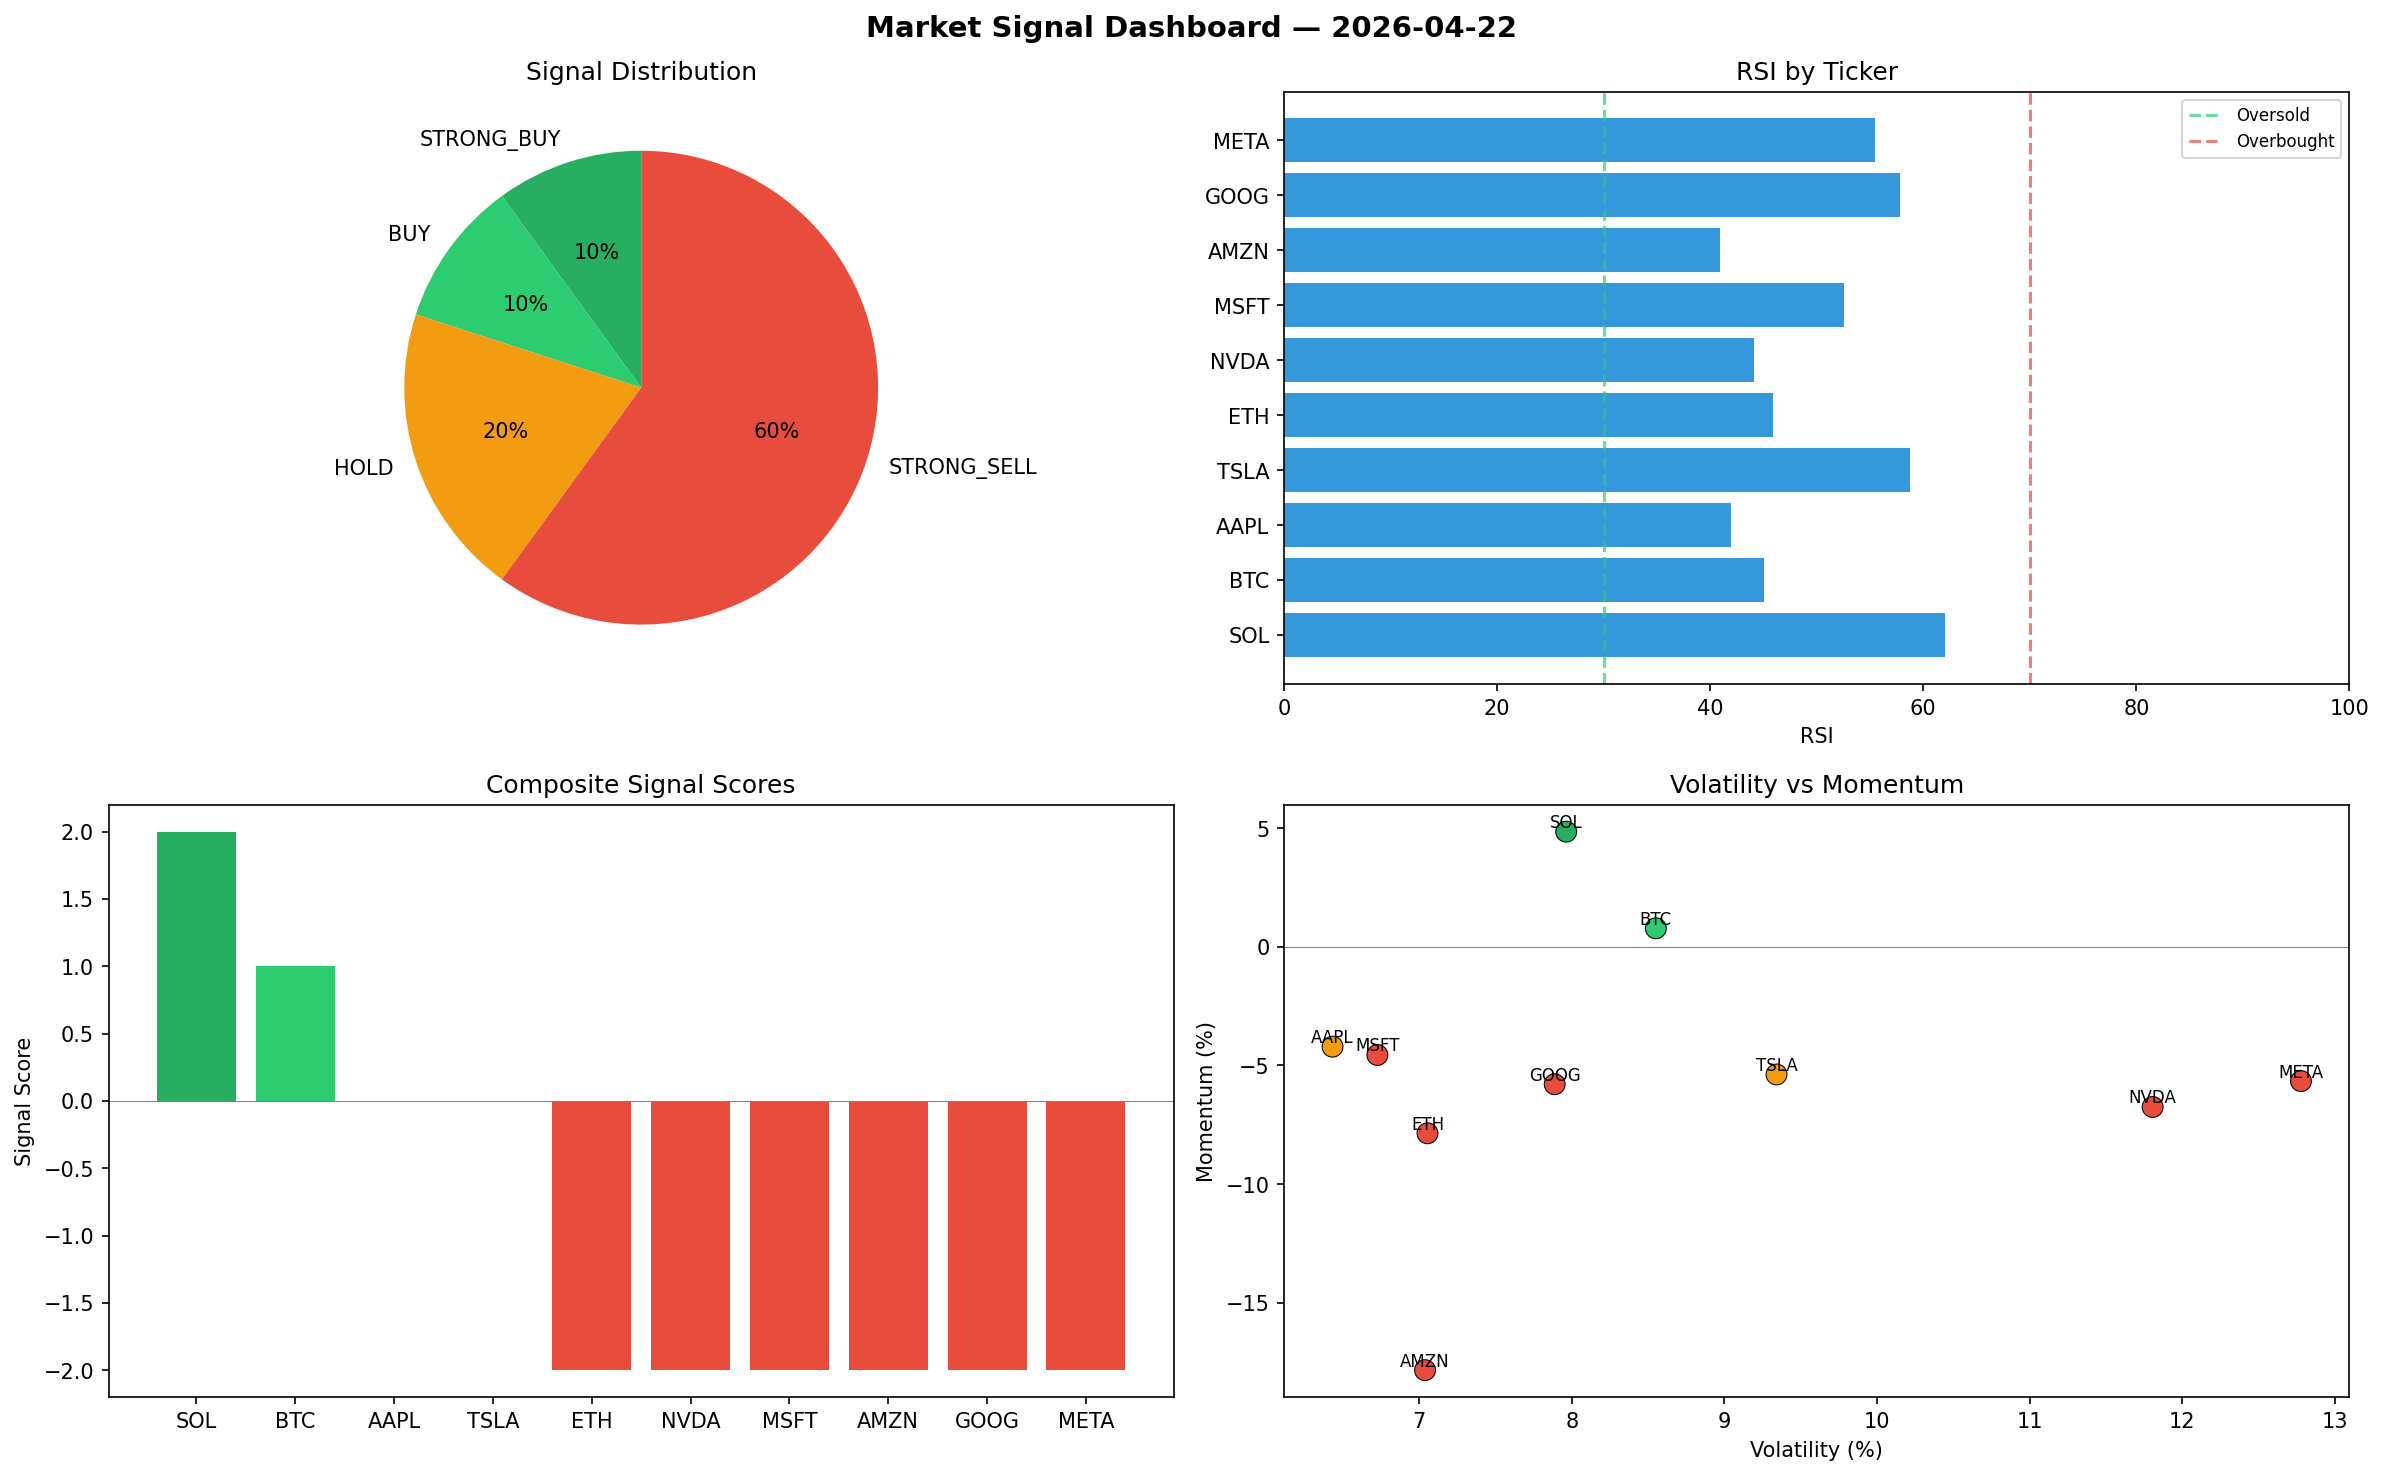
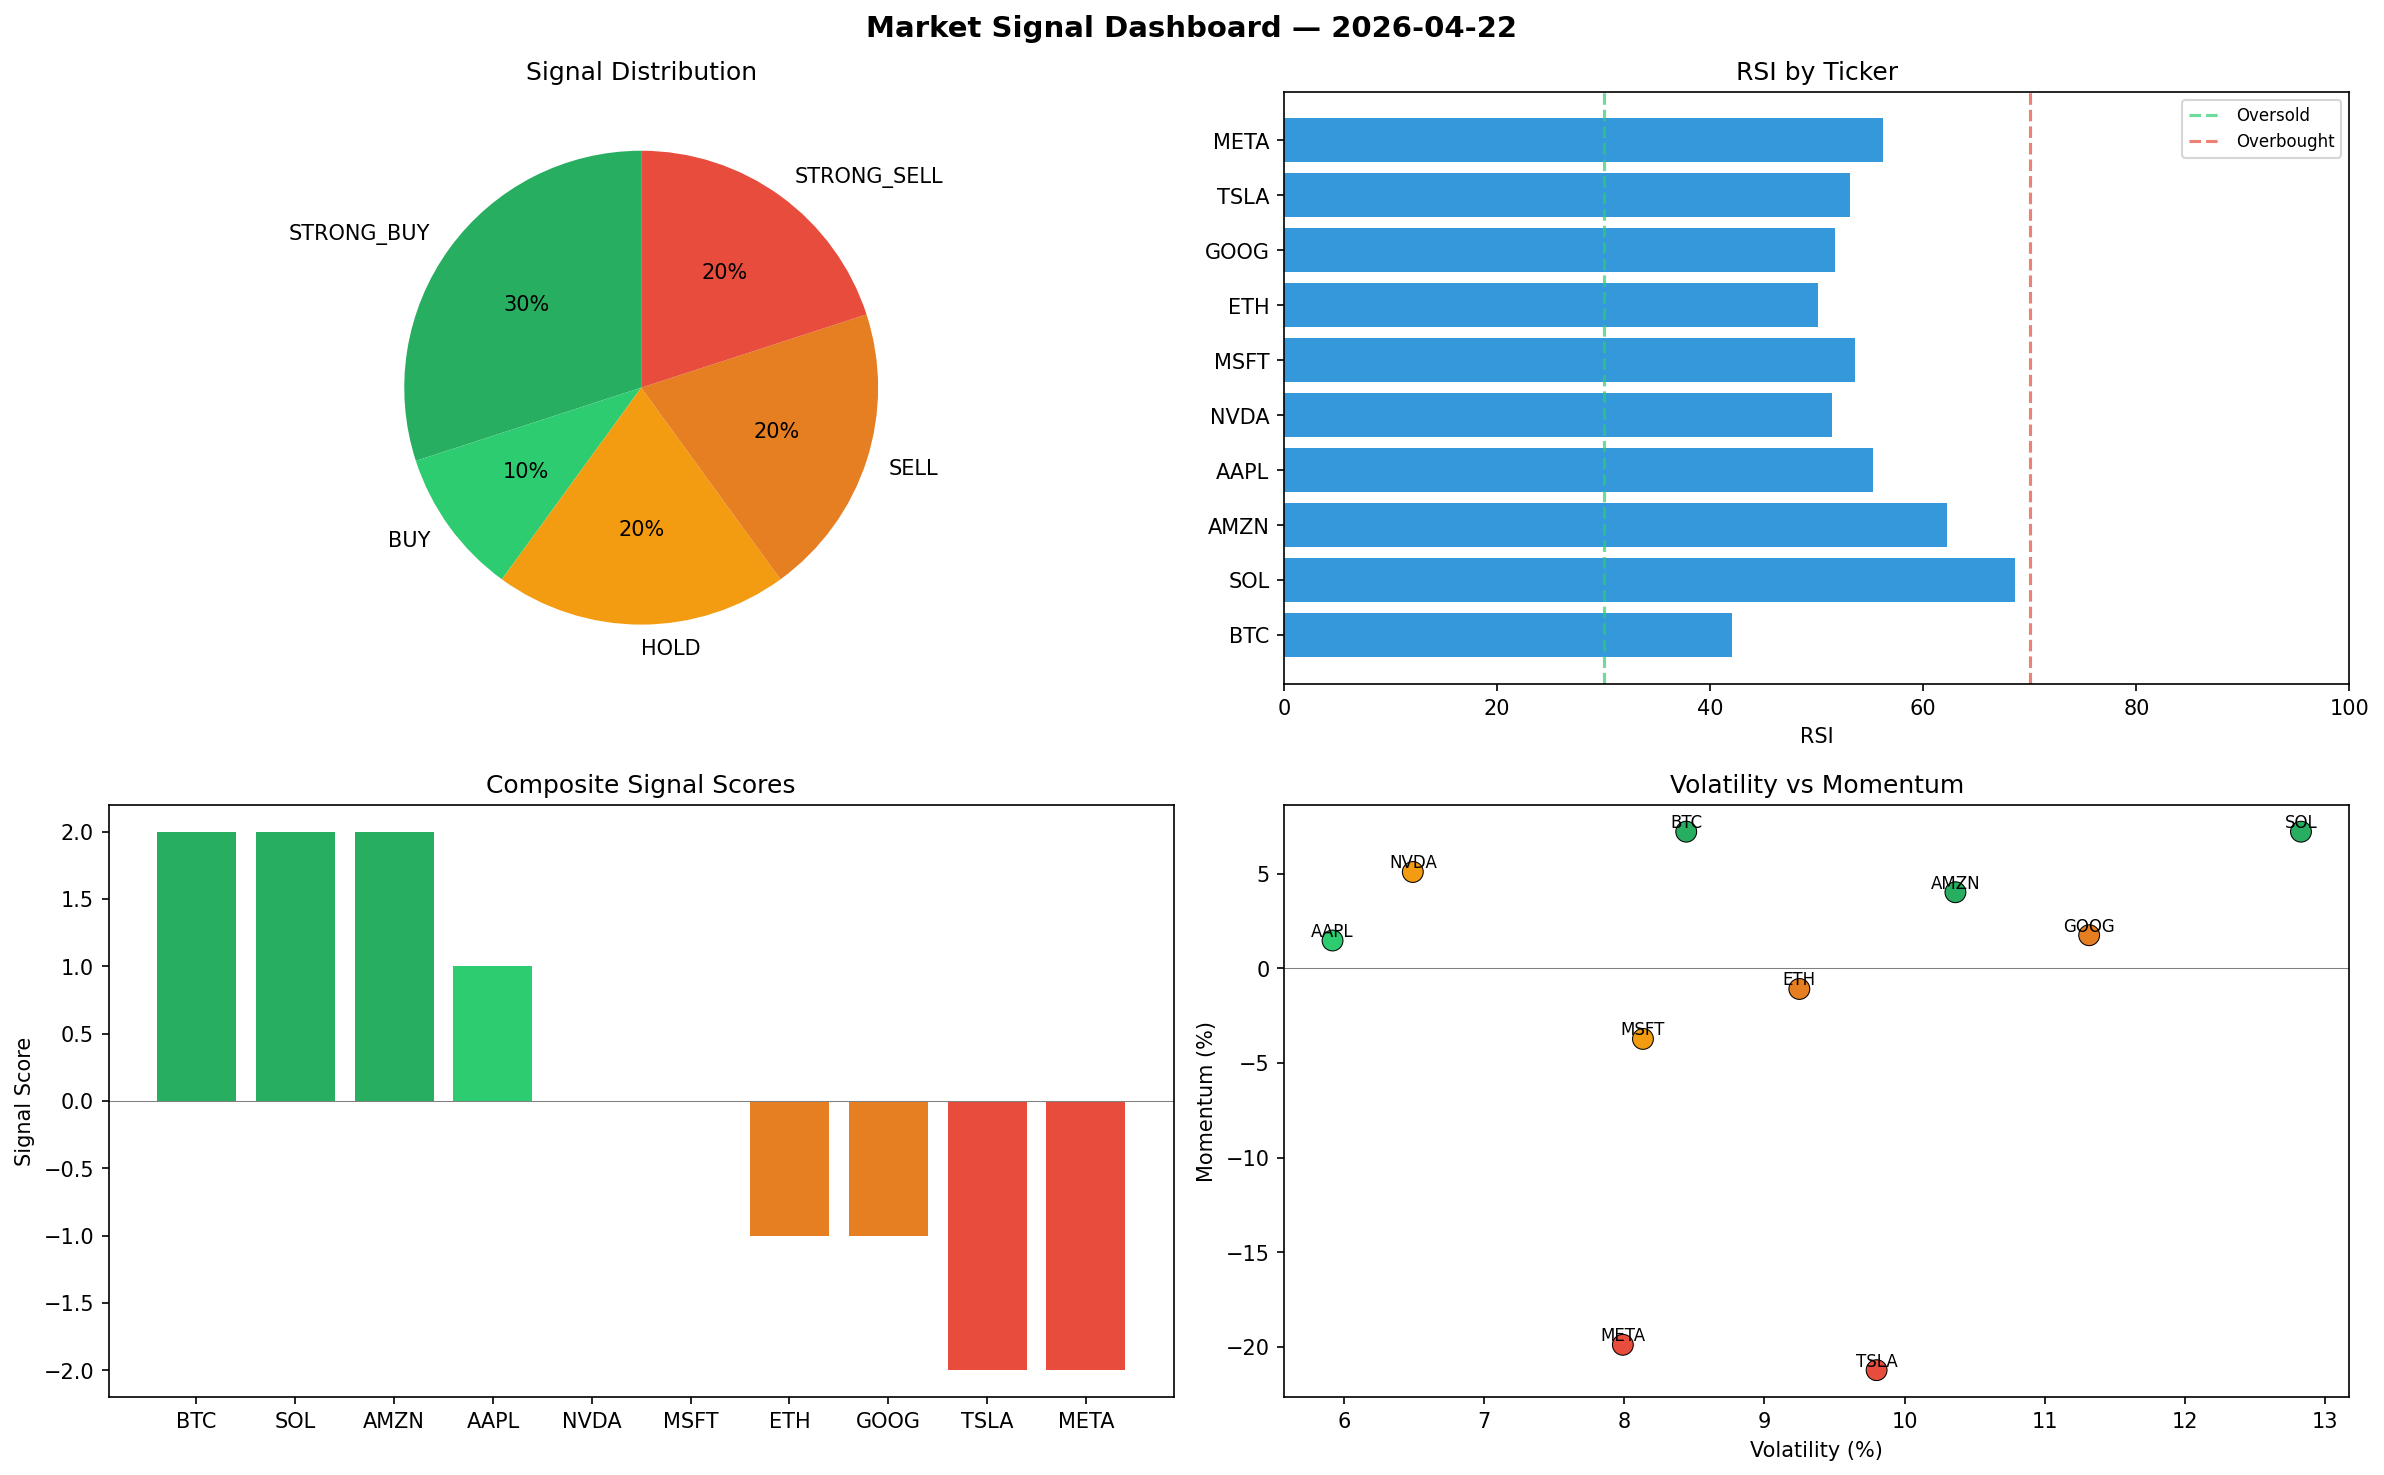
automated-bots: market signals 2026-04-22T15:51

diff --git a/logs/2026-04-22.md b/logs/2026-04-22.md
@@ -1,6 +1,6 @@
 # Market Signal Report — 2026-04-22
 
-**Run ID:** `4f0ff7b432` | **Buy:** 2 | **Sell:** 6 | **Hold:** 2
+**Run ID:** `793fade0c9` | **Buy:** 4 | **Sell:** 4 | **Hold:** 2
 
 ![Dashboard](2026-04-22_dashboard.png)
 
@@ -8,28 +8,28 @@
 
 | Ticker | Price | Signal | Score | RSI | Momentum | Confidence |
 |--------|-------|--------|-------|-----|----------|------------|
-| SOL | $2194.07 | **STRONG_BUY** | 2 | 62.07 | 0.0485 | 0.5 |
-| BTC | $429.18 | **BUY** | 1 | 45.01 | 0.0078 | 0.25 |
-| AAPL | $4346.77 | **HOLD** | 0 | 41.96 | -0.0421 | 0.0 |
-| TSLA | $674.37 | **HOLD** | 0 | 58.76 | -0.0538 | 0.0 |
-| ETH | $559.71 | **STRONG_SELL** | -2 | 45.89 | -0.0786 | 0.5 |
-| NVDA | $403.48 | **STRONG_SELL** | -2 | 44.1 | -0.0675 | 0.5 |
-| MSFT | $3059.62 | **STRONG_SELL** | -2 | 52.51 | -0.0456 | 0.5 |
-| AMZN | $2916.0 | **STRONG_SELL** | -2 | 40.87 | -0.1784 | 0.5 |
-| GOOG | $1316.81 | **STRONG_SELL** | -2 | 57.81 | -0.0579 | 0.5 |
-| META | $1213.26 | **STRONG_SELL** | -2 | 55.51 | -0.0566 | 0.5 |
+| BTC | $1301.71 | **STRONG_BUY** | 2 | 42.02 | 0.0722 | 0.5 |
+| SOL | $250.37 | **STRONG_BUY** | 2 | 68.57 | 0.0722 | 0.5 |
+| AMZN | $1817.77 | **STRONG_BUY** | 2 | 62.2 | 0.0402 | 0.5 |
+| AAPL | $962.48 | **BUY** | 1 | 55.25 | 0.0147 | 0.25 |
+| NVDA | $3927.27 | **HOLD** | 0 | 51.43 | 0.0509 | 0.0 |
+| MSFT | $3227.77 | **HOLD** | 0 | 53.55 | -0.0373 | 0.0 |
+| ETH | $1158.11 | **SELL** | -1 | 50.1 | -0.0109 | 0.25 |
+| GOOG | $4360.09 | **SELL** | -1 | 51.7 | 0.0175 | 0.25 |
+| TSLA | $1789.78 | **STRONG_SELL** | -2 | 53.1 | -0.2123 | 0.5 |
+| META | $2773.01 | **STRONG_SELL** | -2 | 56.18 | -0.1989 | 0.5 |
 
 ## Delta vs Yesterday
 
 | Ticker | Today | Yesterday | Price Change | Signal Changed |
 |--------|-------|-----------|-------------|----------------|
-| SOL | STRONG_BUY | BUY | 📈 1304.74% | ⚠ YES |
-| BTC | BUY | STRONG_SELL | 📉 -86.46% | ⚠ YES |
-| AAPL | HOLD | HOLD | 📈 64.22% | — |
-| TSLA | HOLD | HOLD | 📉 -80.1% | — |
-| ETH | STRONG_SELL | BUY | 📉 -77.04% | ⚠ YES |
-| NVDA | STRONG_SELL | STRONG_BUY | 📉 -91.82% | ⚠ YES |
-| MSFT | STRONG_SELL | STRONG_SELL | 📈 73.59% | — |
-| AMZN | STRONG_SELL | STRONG_SELL | 📈 39.88% | — |
-| GOOG | STRONG_SELL | HOLD | 📈 174.38% | ⚠ YES |
-| META | STRONG_SELL | STRONG_SELL | 📈 32.48% | — |
+| BTC | STRONG_BUY | STRONG_SELL | 📉 -58.93% | ⚠ YES |
+| SOL | STRONG_BUY | BUY | 📈 60.3% | ⚠ YES |
+| AMZN | STRONG_BUY | STRONG_SELL | 📉 -12.8% | ⚠ YES |
+| AAPL | BUY | HOLD | 📉 -63.64% | ⚠ YES |
+| NVDA | HOLD | STRONG_BUY | 📉 -20.41% | ⚠ YES |
+| MSFT | HOLD | STRONG_SELL | 📈 83.13% | ⚠ YES |
+| ETH | SELL | BUY | 📉 -52.49% | ⚠ YES |
+| GOOG | SELL | HOLD | 📈 808.5% | ⚠ YES |
+| TSLA | STRONG_SELL | HOLD | 📉 -47.19% | ⚠ YES |
+| META | STRONG_SELL | STRONG_SELL | 📈 202.79% | — |
